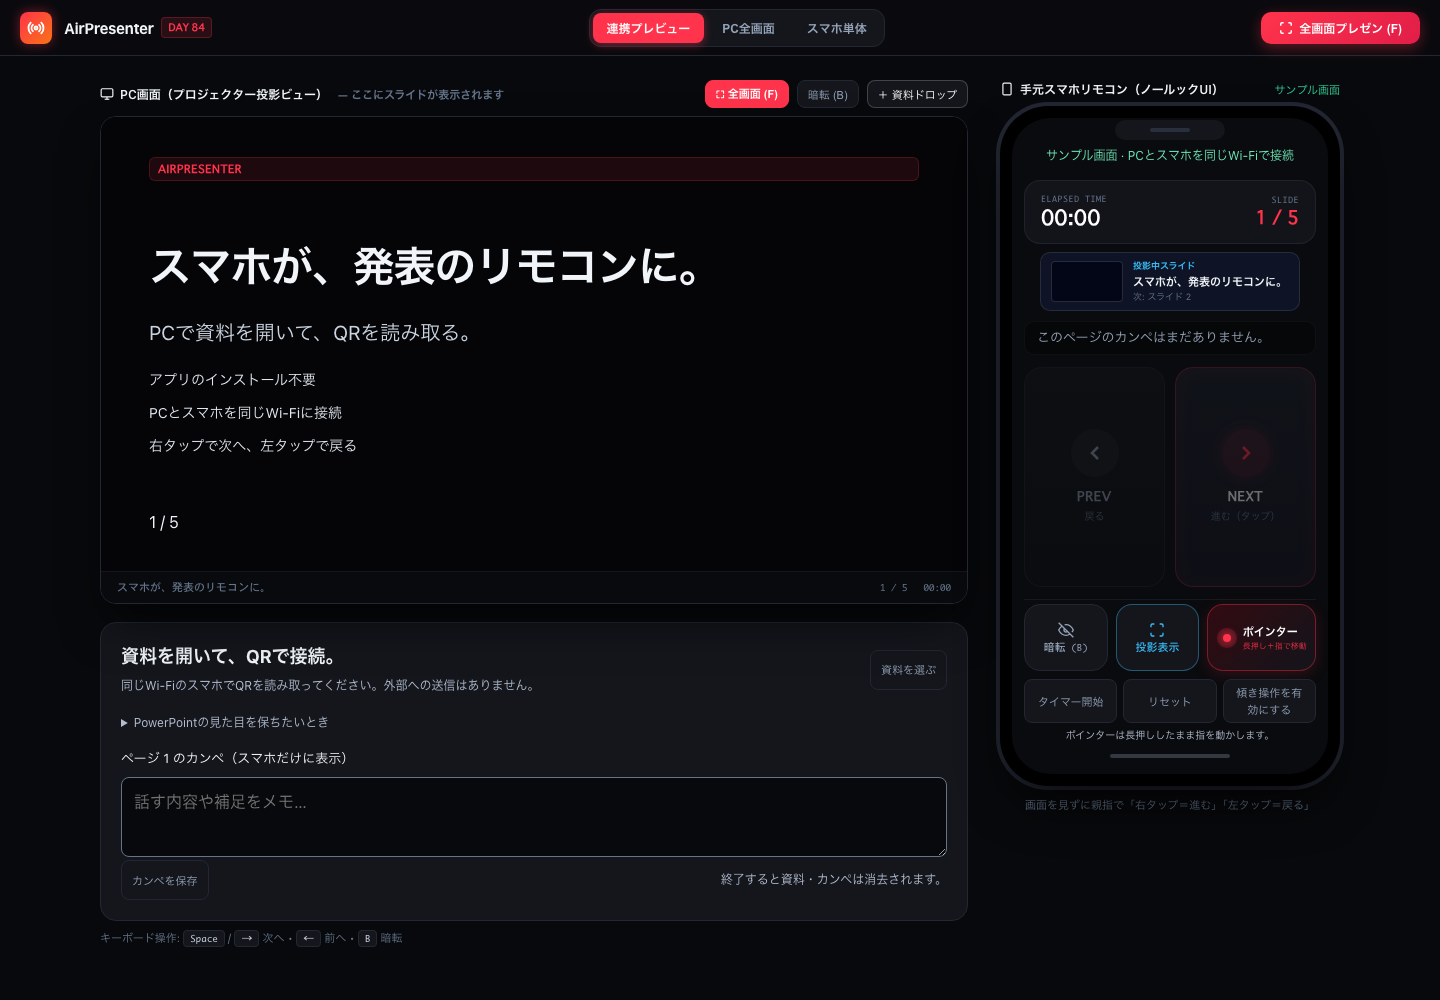
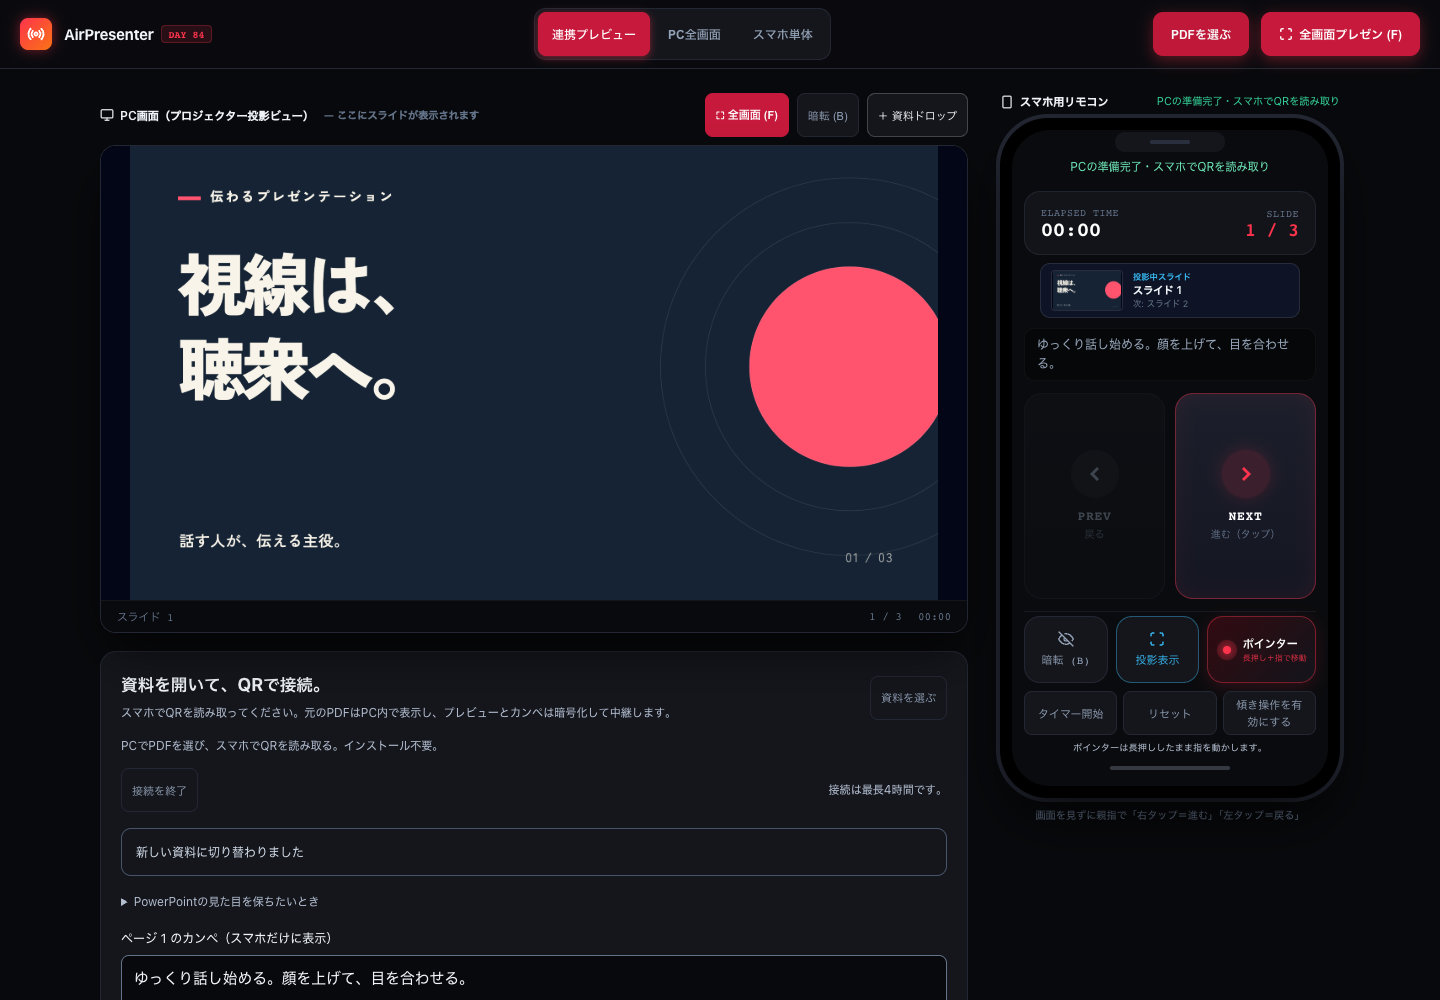
feat(day084): prepare browser-only publishing and runtime CI

diff --git a/day-084-airpresenter/index.html b/day-084-airpresenter/index.html
@@ -374,6 +374,8 @@
       font-family: monospace;
     }
 
+    .pc-footer { color:#94a3b8; }
+
     /* QR Overlay Badge - Real QR Code */
     .qr-badge {
       position: absolute;
@@ -959,7 +961,8 @@
     .qr-badge { position:static; margin:0 0 16px; width:fit-content; max-width:100%; }
     #qrBadge .qr-image-container { width:160px !important; height:160px !important; flex-shrink:0; }
     .qr-badge [style*="font-family"] { overflow-wrap:anywhere; }
-    button, .btn-tool, .tab-btn { min-height:44px; min-width:44px; }
+    button, .btn-tool, .tab-btn, summary { min-height:44px; min-width:44px; }
+    summary { padding:10px 0; }
     .btn-fullscreen-toggle, .tab-btn.active { background:#c7193b; color:#fff; }
     #mainHeader { gap:12px; flex-wrap:wrap; height:auto; min-height:56px; padding-top:8px; padding-bottom:8px; }
     #hostTools .helper-text { line-height:1.7; }

diff --git a/day-084-airpresenter/README.md b/day-084-airpresenter/README.md
@@ -1,44 +1,50 @@
 # Day084 AirPresenter
 
-Macで開いた資料を、同じWi-Fiのスマホから操作するローカルアプリです。
-公開ページは、macOS向けローカル版の案内と配布を行います。
-
-- 公開ページ： https://rairakku.com/100days/day-084-airpresenter/
-- 配布物： `airpresenter-local.zip`
-- ソースと起動手順： [source/README.md](source/README.md)
+スマホをプレゼンのリモコンにするWebアプリです。
+[AirPresenterを開く](https://rairakku.com/100days/day-084-airpresenter/)
 
 ## 使い始める
 
-Node.js 22以上とHomebrewを用意し、ZIPを展開します。
-中の`airpresenter`フォルダでターミナルを開き、次を実行します。
+1. PCのブラウザでリンクを開き、「PDFを選ぶ」から資料を選びます。
+2. ページを確認して「この資料で発表する」を押します。
+3. スマホでPC画面のQRを読み取ります。接続リンクのコピーも使えます。
+4. ページ送り・戻り、暗転、長押しポインター、カンペ、タイマーを手元で操作します。
+
+インストールやアカウント登録は不要です。PC・スマホともネット接続が必要です。
+QRと接続リンクには操作権限があるため、接続する人だけに見せてください。
+
+## 資料と接続
+
+- PDF：25 MiB・100ページまで。PowerPointは元のPowerPointからPDFに書き出して選びます。
+- PPTX・PPTの直接変換には対応しません。アニメーション・動画は静止画になります。
+- 差し替え中は処理段階・経過時間・ページ数を表示し、採用前に確認できます。
+- 失敗・取消では元の資料を維持します。
+- 元のPDFはPCのブラウザ内で処理します。スマホへのプレビューとカンペは暗号化して中継します。
+- 接続は最長4時間。「接続を終了」で無効にし、資料・カンペを消去します。
+- 資料・カンペは保存しません。PCの再読み込み・タブを閉じる操作で失われます。
+- 切断中の操作は送らず、再接続時にPCの現在の状態へ戻ります。
+
+Chromeで実際のPDF表示と別ブラウザ間の操作を検証しています。
+Safari実機での動作は未検証です。
+
+## 開発と配信
+
+開発用の手順です。利用者は実行する必要がありません。
+Node.js 24で、リポジトリルートの`npm ci`後に次を実行します。
 
 ```sh
-brew install poppler qrencode fontconfig
-brew install --cask libreoffice
-npm ci
+cd day-084-airpresenter/web
+npm ci --ignore-scripts
 npx playwright install chromium
-npm start
+npm test
+npm run test:browser
+npm run build
+npm run test:e2e
+npm run dev
 ```
 
-Macで http://localhost:3084/?mode=dual を開き、資料を選びます。
-同じWi-Fiのスマホで、Mac画面のQRを読み取ってください。
-QRは操作権限を含むため、接続する人だけに見せます。
-終了はターミナルでCtrl+C。再起動後は新しいQRから接続します。
-
-## 操作できること
-
-ページ送り・戻り、暗転、長押しポインター、ページ別のカンペ、共通タイマーを使えます。
-PDF・PPTX・PPT、25 MiB・100ページまで対応します。
-差し替え中は処理段階・経過時間・生成枚数を確認でき、PowerPointは変換結果を見てから採用します。
-
-PowerPointとは描画エンジンが異なるため、完全一致は保証できません。
-見た目を優先するときは、元のPowerPointからPDFを書き出して読み込みます。
-アニメーション・動画は静止画になります。
-資料はMacで処理し、外部サービスへ送りません。
-端末間通信を禁止するWi-Fiではスマホを接続できません。
-
-## 公開物
-
-`source/`には配布するアプリと合成試験、`tools/`にはZIP作成の道具を置きます。
-公開ページの画像は自作サンプルです。実資料・変換画像・接続用QR・過去のGit履歴は配布しません。
-配布物はMIT Licenseです。外部ツール・パッケージ・既存フォントそのものは同梱しません。
+`web/`にWorkers/DOと検証、直下にブラウザ実装、`vendor/`に固定版PDF.js等を置きます。
+公開先はこのDayだけのWorker routeです。PDF・カンペ・暗号鍵を中継側に保存しません。
+`source/`・`tools/`・配布ZIPは旧ローカル版の履歴で、通常の利用導線では使いません。
+公開画像・試験PDFは自作です。本人の実資料や接続用QRは含みません。
+外部コードと同梱リソースのライセンスは[第三者表記](../THIRD_PARTY_NOTICES.md)を参照してください。

diff --git a/.agent-harness/runs/day084-browser.md b/.agent-harness/runs/day084-browser.md
@@ -23,9 +23,9 @@
 - Task1 Relay：実Miniflare/Chromeの15/15成功・skip0、構文PASS、独立レビューAPPROVED。権限・別部屋・status・期限拒否・中継・制限・終了を確認。idle alarmは保存時刻と実handler明示配送を検証し、秒単位自動配送時刻は未検証。
 - Task2 Browser：13/13、skip0、独立レビューAPPROVED。PDF・wire境界・暗号化・burst・切断/再同期・終了を実runtime/Chromeで確認。
 - Task3 UI：独立レビューAPPROVED。実2ブラウザ12工程成功、pageerror/CSP違反0。レビューでQR Spaceの二重操作とinline dblclickを修正した。
-- 3幅のoverflowなし・44pxを確認。独立UI/体験評価は進行中、本番はまだ完成扱いしない。
+- 3幅のoverflowなし・44pxを確認。独立評価はUI18/20・体験19/20、全項目1点以上。3幅の44px・footer contrast7.73:1を実見済み。本番はまだ完成扱いしない。
 - Miniflare5はworkers配列schema。実配布のconvertV4MiniflareOptionsで旧形式を正式変換して使う。
-- Task4：meta/説明/共有CSP/CIをブラウザ版へ整備中。root unit初回7件のREDは独立ビルドでDay84のpolicyを常時importしたため。含有Dayが84の時だけ読む形にし、関連37件の回帰検査で修正を確認。
+- Task4：meta/説明/共有CSP/CIをブラウザ版へ整備中。root unit初回7件のREDは独立ビルドでDay84のpolicyを常時importしたため。含有Dayが84の時だけ読む形にし、関連31件の回帰検査で修正を確認。
 - 次：全体check・公開ゲート・PR/必須CI・マージ・専用routeの本番確認。
 
 ## 公開の契約
@@ -33,3 +33,10 @@
 - Web/policy.mjsをroot/Worker共通CSPにし、同じCSP下でPDFとWSを実行する。
 - wireは現在ページのノートと画像だけ、平文47KiB・外枠64KiB。DBに平文・暗号鍵・資料・暗号文を保存しない。
 - 完成後、旧プロモ/投稿文のMacローカル版という説明もWeb版と一致させる。
+
+## 公開前の検査
+- 全体check：構文0・unit5092件（5091成功/既存skip1）・16プロジェクト依存監査high/critical0・build成功。
+- 静的Day84：固有port4184で2/2成功。既存4173の旧worktree配信を再利用した初回失敗とは分離した。
+- Worker dry-run：229assets/17.77KiB、DO・rate・assets bindings成功。
+- Relay再検証：15/15、skip0。Task4コードの独立レビューAPPROVED。
+- 公開gate初回はgyro permissionsの新例外を既存検査が未対応。payment/USBもdenyを維持し、Day84専用assertを追加して再検証中。

diff --git a/.kiro/specs/day084-browser/verification.md b/.kiro/specs/day084-browser/verification.md
@@ -1,0 +1,35 @@
+# Day84 ブラウザ版の検証
+
+2026-11-06。本人の原本・私的資料は使わず、自作の日本語PDF3ページで確認した。
+
+## 実装の検証
+
+| 対象 | 結果と証拠 |
+|---|---|
+| Relay | 実Miniflare/SQLite/Chrome 15/15成功、skip0。認証・別部屋・制限・終了・期限。独立APPROVED |
+| Browser | 実Chrome/Miniflare 13/13成功、skip0。日本語PDF・暗号/AAD・wire境界・再同期・ACK・終了。独立APPROVED |
+| UI | 実2ブラウザ12工程成功、pageerror/CSP違反0。QRキーボード、採用/取消/失敗、全画面、切断復帰、終了を確認。独立APPROVED |
+| UI評価 | 18/20、体験19/20、全項目1点以上。3幅のoverflowなし・操作44px以上、footer contrast約7.73:1 |
+| 全体check | 構文エラー0、unit5092件中5091成功/既存skip1/失敗0、16プロジェクト依存監査high/critical0、build成功 |
+| 専用配信 | Wrangler dry-run成功、229assets・17.77KiB Worker。SQLite DO・rate・assets設定を確認 |
+| 静的E2E | 固有port4184で2/2成功。PDF案内・インストール不要・3幅・公開URLコピー・非配信範囲 |
+
+## レビューで直した点
+
+- inline dblclickがCSPで拒否されたためapp.jsでイベント登録し、実全画面とCSP違反0を追加検証。
+- QRでSpaceコピーしたとき共通ショートカットも働いたため、処理済みイベントを除外。ページ不変を検証。
+- 補助ボタン/summaryを44px以上にし、小さいページ番号のコントラストを改善。
+- Day84を含まない隔離ビルドでpolicyを読まないようにし、関連31/31と新fixture1/1を確認。
+- 共通権限検査にDay84のセンサー限定を追加。マイク・カメラ・位置・支払・USBのdenyと他Dayの制限を維持。
+
+## 公開後に確定する項目
+
+最新head必須CI、マージ、専用Worker route反映、本番URLの実2ブラウザ接続は実施結果で記録する。
+現時点では本番動作の完了を主張しない。SNS投稿は行わない。
+
+## 確認していない環境・限界
+
+- iOS/Safari実機、物理スマホのQR読み取りは未検証。
+- idle alarmの自動配送時刻は未検証。保存時刻・期限拒否・実handler明示配送を区別して確認。
+- PPTX/PPT直接読込は非対応。PowerPointからPDFに書き出して使用する。
+- PDF・カンペはページメモリだけ。再読込/タブ終了で失われる。接続は最長4時間。

diff --git a/THIRD_PARTY_NOTICES.md b/THIRD_PARTY_NOTICES.md
@@ -201,6 +201,9 @@ Pixel-Boy / AAAのNinja Adventure（CC0）、DotGothic16（OFL 1.1）、Phaser 4
 
 ## Day084 AirPresenter
 
-公開画像は自作サンプル画面です。配布ZIPはアプリのソースと合成試験だけを含み、実資料・フォント・変換ツールを含みません。
-Playwright/Chromium、LibreOffice、Poppler、qrencode、Fontconfigは利用者の環境で別途取得します。
-Macのインストール済みフォントは変換中に参照するだけで、再配布しません。
+公開画像・試験PDFは自作サンプルです。本人の実資料・変換画像・操作権限を含みません。
+ブラウザ版はPDF.js 6.5.438（Apache-2.0）とqrcode-generator 2.0.4（MIT、Kazuhiko Arase）を同梱します。
+PDF.jsのCMaps、標準フォント、WASM、ICCには個別のライセンスがあります。
+Adobe CMaps、Foxit、Liberation（GPL-2.0＋フォント例外）、OpenJPEG、QCMS、ICCの表記を含め、`vendor/pdfjs/`各ディレクトリのLICENSEと`vendor/qrcode-LICENSE`を保持しています。
+Playwright/Chromium・Wrangler・Miniflareは開発・検証用で、利用者のインストールは不要です。
+旧ローカル版ZIPはソースと合成試験のみを含みます。LibreOffice・Poppler・qrencode・Fontconfig・Macフォントは含みません。
